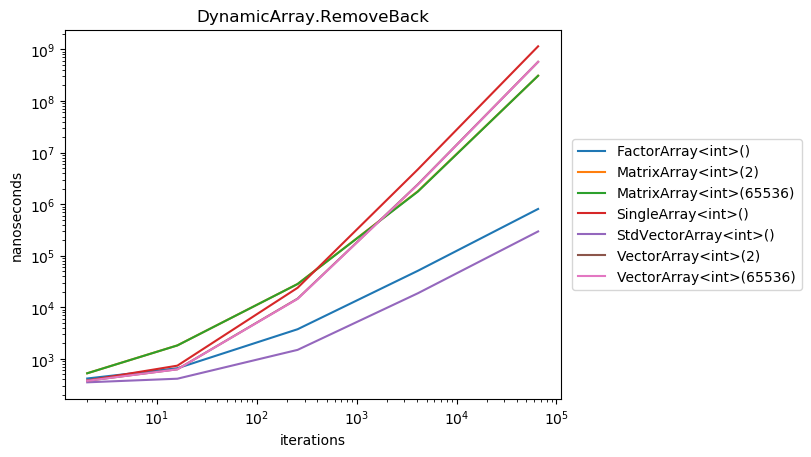
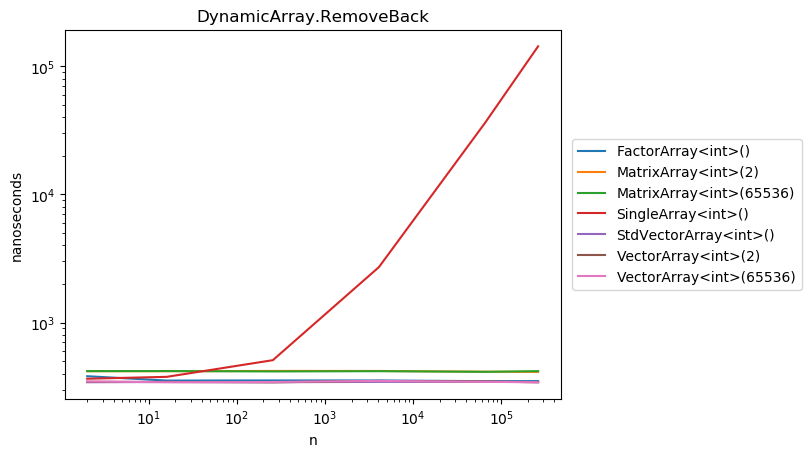
multiple fixes in benchmarks

diff --git a/02_data_structures/transform_benchmark_results.py b/02_data_structures/transform_benchmark_results.py
@@ -20,7 +20,7 @@ def extractType(name):
     return "{0}({1})".format(type_name, type_parameter)
 
 
-def extractIterations(name):
+def extractN(name):
     return int(name.split("/")[1])
 
 
@@ -33,9 +33,9 @@ def buildDataFrame():
     df = src[pandas.notnull(src["cpu_time"])][["name", "cpu_time"]]
     df["method"] = df["name"].apply(extractMethodName)
     df["type"] = df["name"].apply(extractType)
-    df["iterations"] = df["name"].apply(extractIterations)
+    df["n"] = df["name"].apply(extractN)
     df = df.drop(columns="name")
-    df = df[["method", "type", "iterations", "cpu_time"]]
+    df = df[["method", "type", "n", "cpu_time"]]
 
     return df
 
@@ -58,7 +58,7 @@ def buildComplexity():
 
 def renderDataFrame(df, method_name):
     pivot = df[df["method"] == method_name].pivot(
-        index="iterations", columns="type", values="cpu_time")
+        index="n", columns="type", values="cpu_time")
     print(pivot)
     axes = pivot.plot(kind="line", title="DynamicArray.{}".format(
         method_name), logx=True, logy=True)

diff --git a/02_data_structures/report/README.md b/02_data_structures/report/README.md
@@ -3,14 +3,14 @@
 В тестировании принимали участии следующие имплементации интерфейса `DynamicArray`:
 * `SingleArray`
 * `VectorArray` с длиной приращения массива 2 и 2 <sup>16</sup>;
-* `FactorArray` с параметром роста 2;
+* `FactorArray` с фактором роста 2;
 * `MartixArray` с длиной ряда 2 и 2 <sup>16</sup>;
 * `StdVectorArray`, построненной с использованием `std::vector` из стандартной библиотеки С++.
 
 Тестировались методы:
-* `Add` в начало и хвост массива;
-* `Remove` из начала и хвоста массива;
-* `Get` из произвольных мест массива.
+* Добавление в начало и хвост массива (`AddFront` и `AddBack`) ;
+* Удаление из начала и хвоста массива (`RemoveFront` и `RemoveBack`);
+* Извлечение данных из середины массива (`Get`).
 
 Размеры массива:
 * 2
@@ -20,11 +20,15 @@
 * 2 <sup>16</sup>
 * 2 <sup>18</sup>
 
-Операция добавления элемента в конец массива для всех имплементаций имеет порядок роста O(N). Лучшую производительность демонстрируют
-`StdVectorArray` и `FactorArray`. В свободное место в хвосте массива данные добавляются за O(1), однако периодически приходится выделять
-больше памяти и проводить копирование данных за O(N), что в результате и даёт итоговую
+Операция добавления элемента в конец массива у оптимизированных имплементаций `DynamicArray` имеет порядок роста O(1). 
+Лучшую производительность демонстрируют `StdVectorArray` и `FactorArray`. В свободное место в хвосте массива данные добавляются за O(1),
+реаллокации случаются редко и не играют значительной роли. В имплементациях `SingleArray`, `VectorArray` и `MatrixArray`,
+где реаллокации и копирование случаются значительно чаще, наблюдаются скорости роста, превышающие O(N).
 ![AddBack](https://github.com/vitalyisaev2/algo-2019-04/blob/master/02_data_structures/report/AddBack.png)
 ![AddFront](https://github.com/vitalyisaev2/algo-2019-04/blob/master/02_data_structures/report/AddFront.png)
 ![RemoveBack](https://github.com/vitalyisaev2/algo-2019-04/blob/master/02_data_structures/report/RemoveBack.png)
 ![RemoveFront](https://github.com/vitalyisaev2/algo-2019-04/blob/master/02_data_structures/report/RemoveFront.png)
+
+Извлечение элемента массива по индексу - операция, выполняющаяся за константное время. У `MatrixArray` она 
+выполняется несколько медленнее, чем у других имплементаций, за счёт большего количества арифметических операций для вычисления адреса ячейки.
 ![Get](https://github.com/vitalyisaev2/algo-2019-04/blob/master/02_data_structures/report/Get.png)
